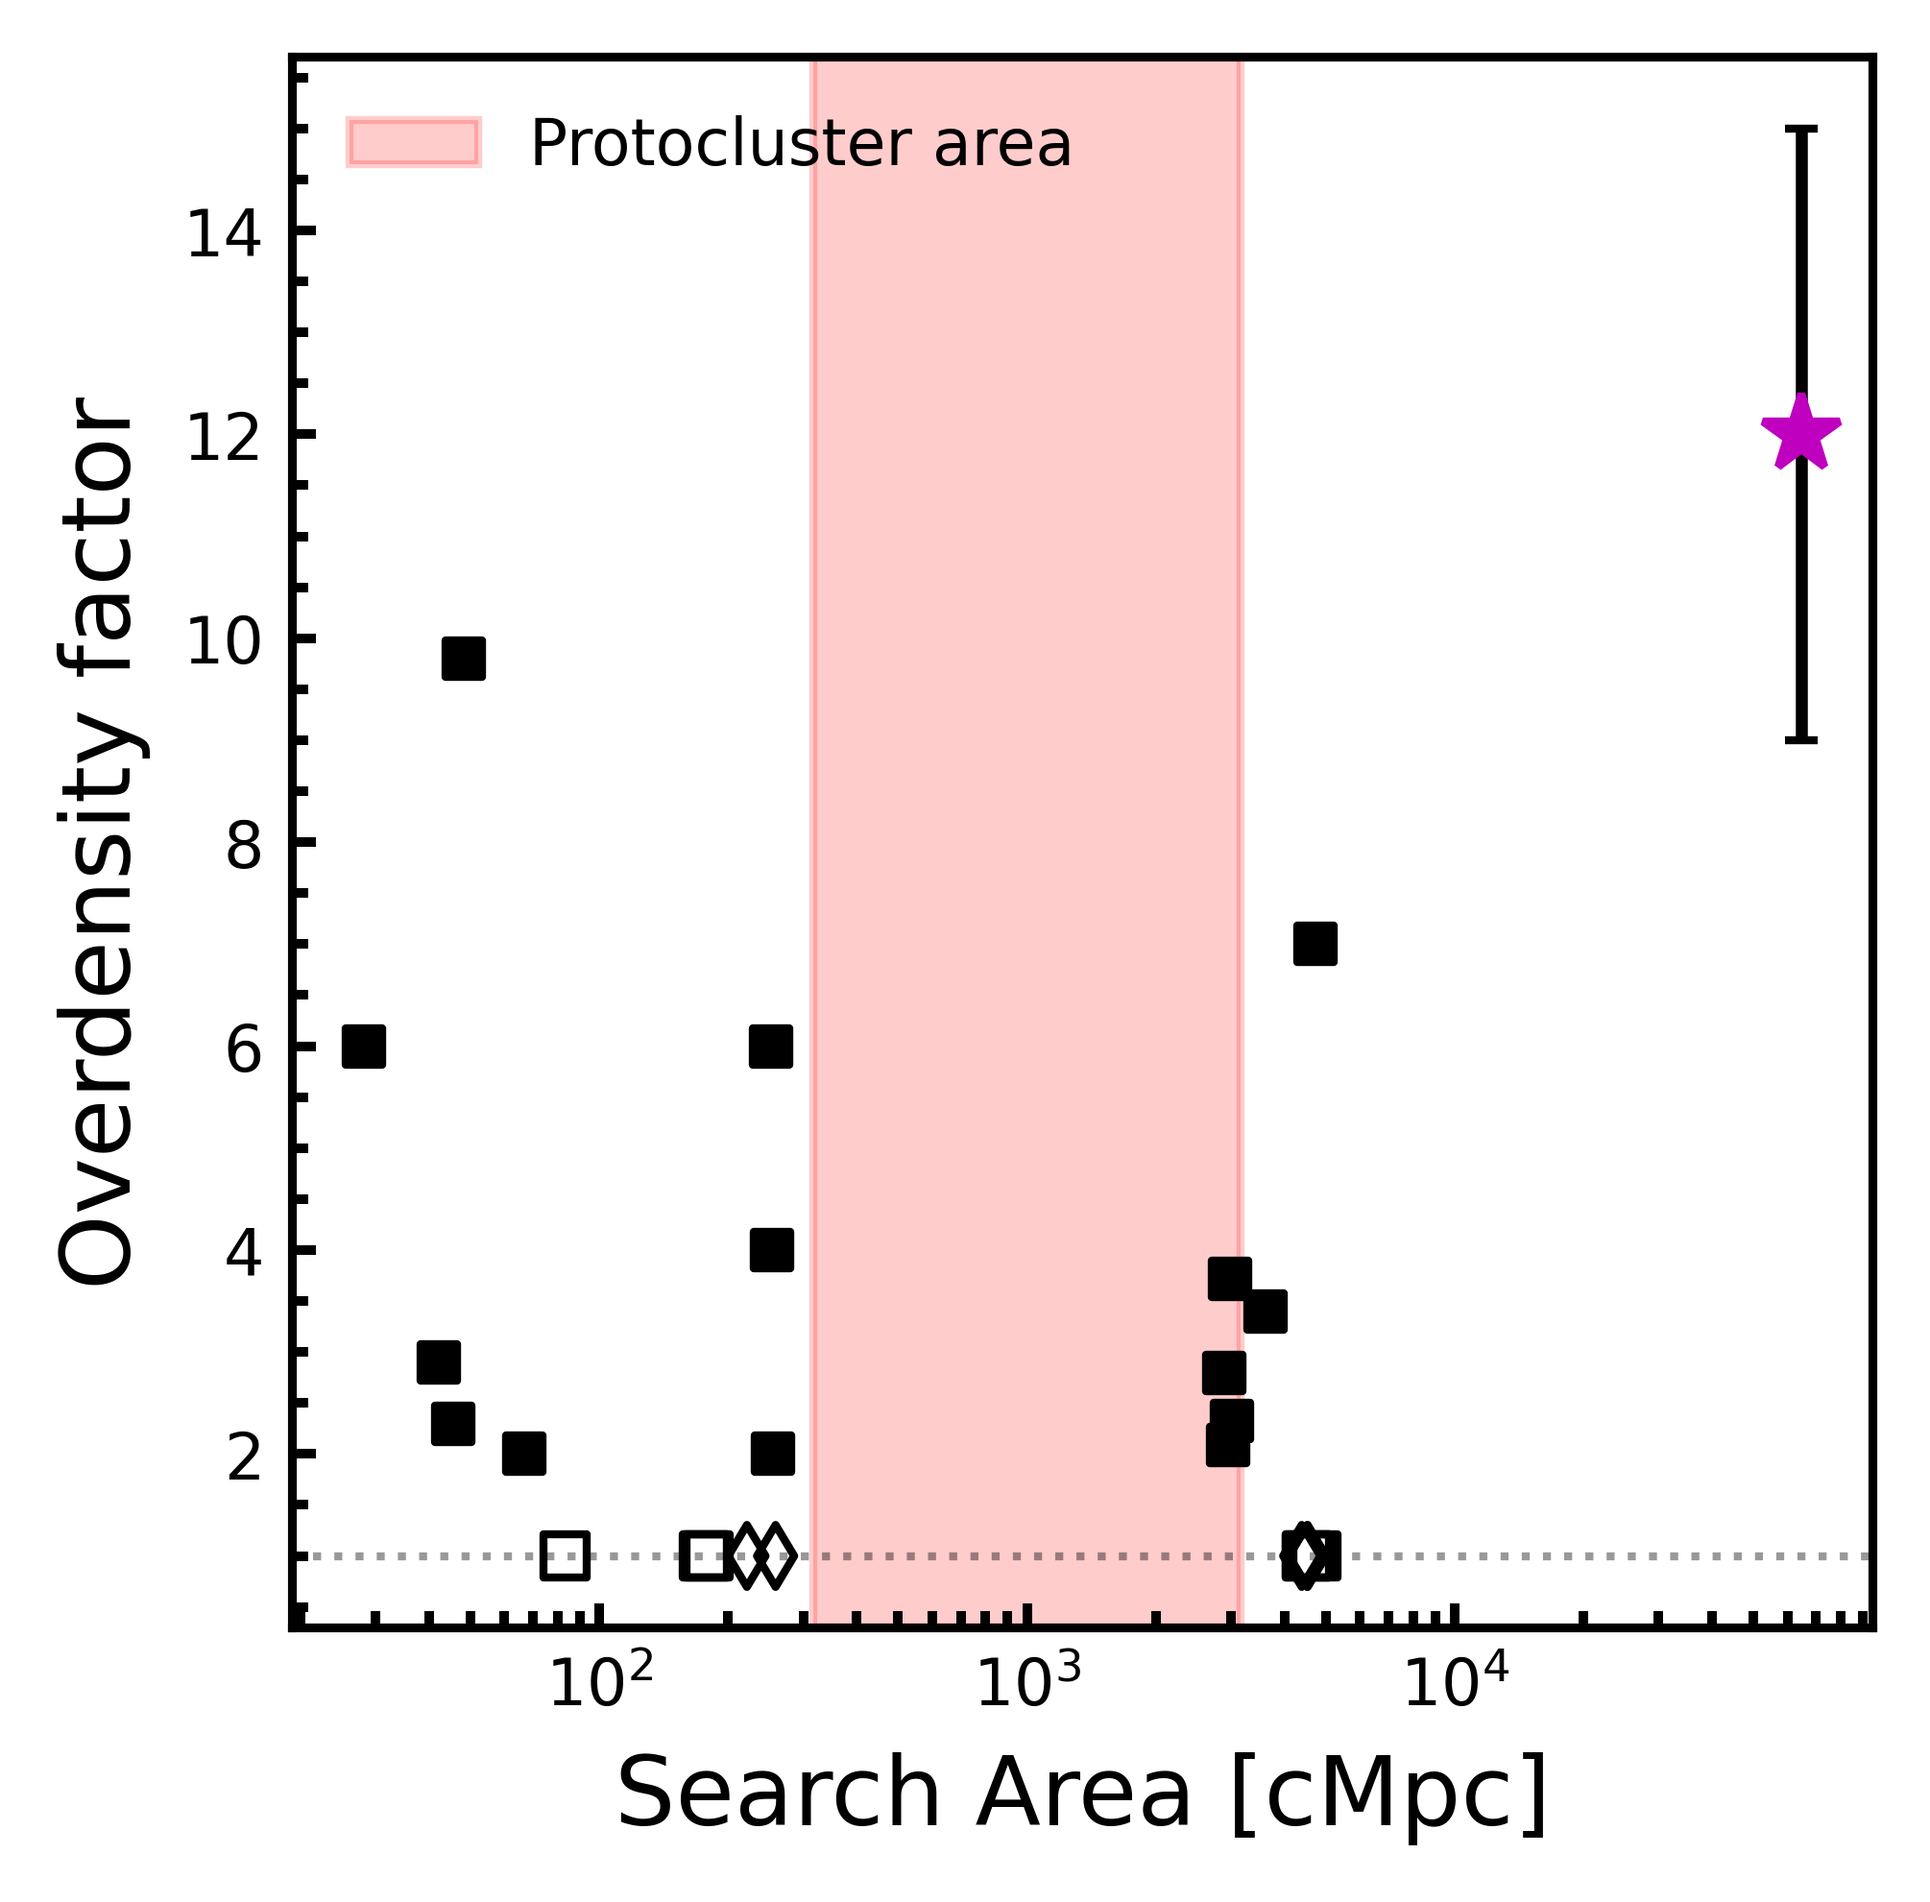
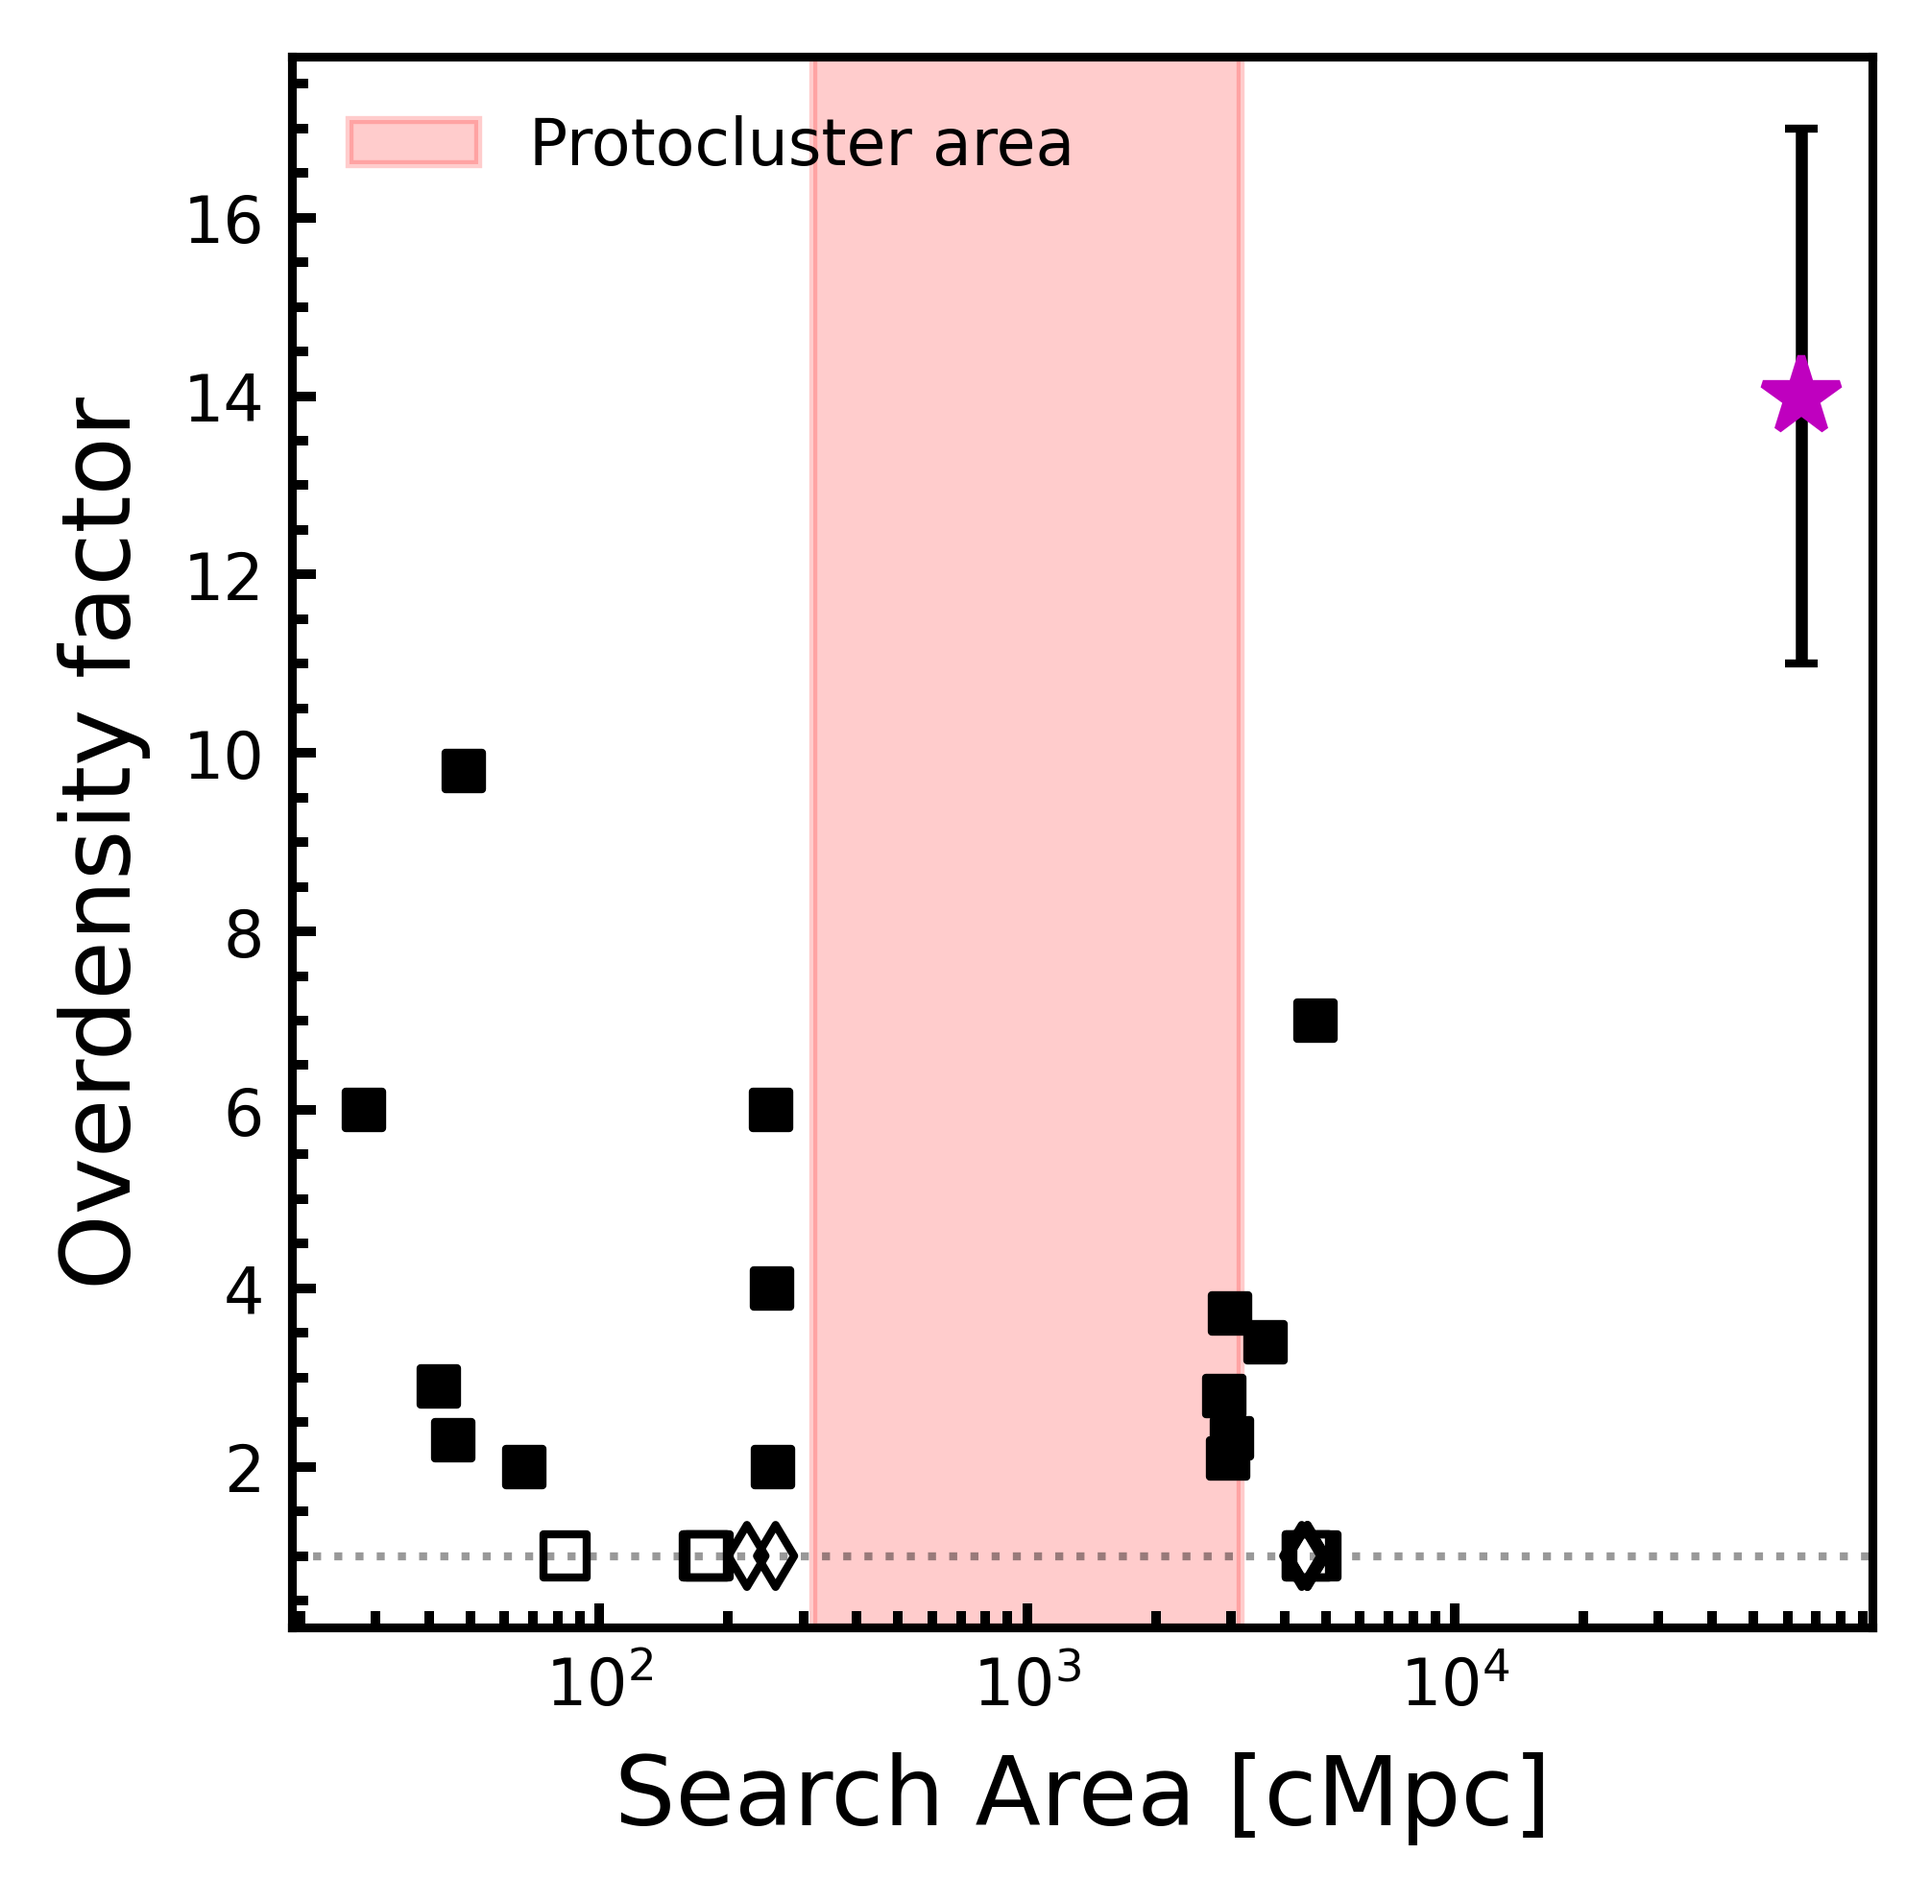
updated plots

diff --git a/make_candidate_latex_tables.py b/make_candidate_latex_tables.py
@@ -9,6 +9,9 @@ from astropy.coordinates import SkyCoord
 from astropy.units.quantity import Quantity
 import astropy.units as u
 
+from sex_catalog import SExtractorCat
+from zero_points import zero_points
+from depth_values import OUR_DEPTH
 
 REDSHIFT_QSO = 6.9
 COSMO = FlatLambdaCDM(H0=70, Om0=0.3)
@@ -73,17 +76,33 @@ def read_luminosity_file(file_name: str) -> tuple[list[str], list[str], list[str
     sfr_strings = [f'{sfr} $\pm$ {err}' for sfr, err in zip(s, se)]
     return lya_strings, sfr_strings, mag_strings
 
+def get_z_band_mags(candidate_name: str, z_catalog_name: str) -> list[str]:
+    """Reads in the broadband magnitude values from catalog"""
+    ra, dec = np.loadtxt(candidate_name, unpack=True)
+    candidates = SkyCoord(ra = ra*u.deg, dec = dec*u.deg)
+    cat = SExtractorCat(z_catalog_name)
+    catalog = SkyCoord(ra = cat.catalog['ALPHAPEAK_J2000']*u.deg, dec = cat.catalog['DELTAPEAK_J2000']*u.deg)
+    idx, _, _  = candidates.match_to_catalog_sky(catalog)
+    mags = np.array(cat.catalog['MAG_APER'][idx]) + zero_points.z_band.mag_correct(1)
+    mag_err = np.array(cat.catalog['MAGERR_APER'])
+    mags, mag_err = np.around(mags, 2), np.around(mag_err, 2)
+    mag_str = [f"{m:.2f}"for m in mags]
+    mag_err_str = [f"{err:.2f}" for err in mag_err]
+    mag_strings = [f'{m} $\pm$ {err}' for m, err in zip(mag_str, mag_err_str)]
+    return mag_strings
 
-def make_file(infile: str, outfile: str, lum_file:str=None) -> None:
+def make_file(infile: str, outfile: str, lum_file:str=None, z_band_file: str = None) -> None:
     """Writes the file given value array containing"""
     ras, decs, c = load_positions(infile)
     ang_dist, co_dist, prop_dist = calcuate_distance_to_quasar(c)
-    data = [np.arange(1, len(ras) +1),ras, decs, ang_dist, co_dist, prop_dist]
+    z_mags = get_z_band_mags(infile, z_band_file)
+    i_mags = np.array([f'>{round(OUR_DEPTH.i_band.sigma_1,2)}' for _ in range(len(z_mags))])
+    data = [np.arange(1, len(ras) +1),ras, decs, ang_dist, co_dist, prop_dist, i_mags, z_mags]
 
     if lum_file is not None:
         lya_string, sfr_string, mag_strings = read_luminosity_file(lum_file)
         data += [mag_strings, lya_string, sfr_string]
-    
+
     data = np.array(data).T
     lines = []
     for dat in data:
@@ -91,7 +110,7 @@ def make_file(infile: str, outfile: str, lum_file:str=None) -> None:
         for val in dat:
             line+=f'{val},'
         lines.append(line)
-    
+
     with open(outfile, 'w', encoding='utf8') as file:
         for line in lines:
             file.write(line[:-1] +' \n')
@@ -102,6 +121,7 @@ if __name__ == '__main__':
     CDFS_FILE = 'candidates_cdfs_e.txt'
     LUM_FILE_US = 'candidate_luminosities.dat'
     LUM_FILE_CDFS = 'candidate_luminosities_cdfs.dat'
+    Z_BAND_FILE = '../correct_stacks/N964/z.cat'
 
-    make_file(US_FILE, 'candidates.csv', LUM_FILE_US)
-    make_file(CDFS_FILE, 'candidates_cdfs.csv', LUM_FILE_CDFS)
+    make_file(US_FILE, 'candidates.csv', LUM_FILE_US, Z_BAND_FILE)
+    #make_file(CDFS_FILE, 'candidates_cdfs.csv', LUM_FILE_CDFS)

diff --git a/Chiara_plot.py b/Chiara_plot.py
@@ -44,7 +44,7 @@ husband_2013_0338 = Observation('SDSS_J0338+0021', 5.027, 49*(u.arcmin**2), 6, '
 zheng_2006 = Observation('SDSS_J0836+0054', 5.8, 5*(u.arcmin**2), 6, 'LBG')
 utsumi_2010 = Observation('CFHQS_J2329-0301', 6.43, 0.219*(u.deg**2), 7, 'LBG')
 champagne_2023_3051 = Observation('VIK_J030516.92-315056.0', 6.6, 7.9*(u.arcmin**2), 9.8, 'LBG')
-lambert_2023 = Observation('VIK_2348-3054', 6.9, 2.87*(u.deg**2), 12, 'LBG')
+lambert_2023 = Observation('VIK_2348-3054', 6.9, 2.87*(u.deg**2), 14, 'LBG')
 kim_2009_1030 = Observation('SDSS J1030+0524', 6.28, 11.3 * (u.arcmin**2), 1.75, 'LBG')
 kim_2009_1630 = Observation('SDSS J1630+4012', 6.05, 11.3 * (u.arcmin**2), 1.375, 'LBG')
 
@@ -117,6 +117,7 @@ for survey in no_surveys:
 
 plt.axhline(1, ls=':', color='k', lw=1, alpha=0.4)
 plt.errorbar(lambert_2023.comoving_area, lambert_2023.overdensity_factor, ms=10, c='m', marker='*', yerr=3, capsize=2, ecolor='k')
+#plt.errorbar(lambert_2023.comoving_area, 10, ms=10, c='m', marker='*', yerr=7, capsize=2, ecolor='k')
 plt.axvspan(10**(2.5), 10**(3.5), color='r', alpha=0.2, label='Protocluster area')
 plt.legend(frameon=False)
 plt.xscale('log')

diff --git a/lyman_luminosities.py b/lyman_luminosities.py
@@ -166,7 +166,7 @@ if __name__ == '__main__':
     log_10_lya = np.log10(lya_lum.value)
 
 
-    
+
     slope, intercept, r_value, p_value, std_err = stats.linregress(log_10_lya,n_mag)
     def convert_log10_lya_nmag(log_10_lya):
         return log_10_lya*slope + intercept
